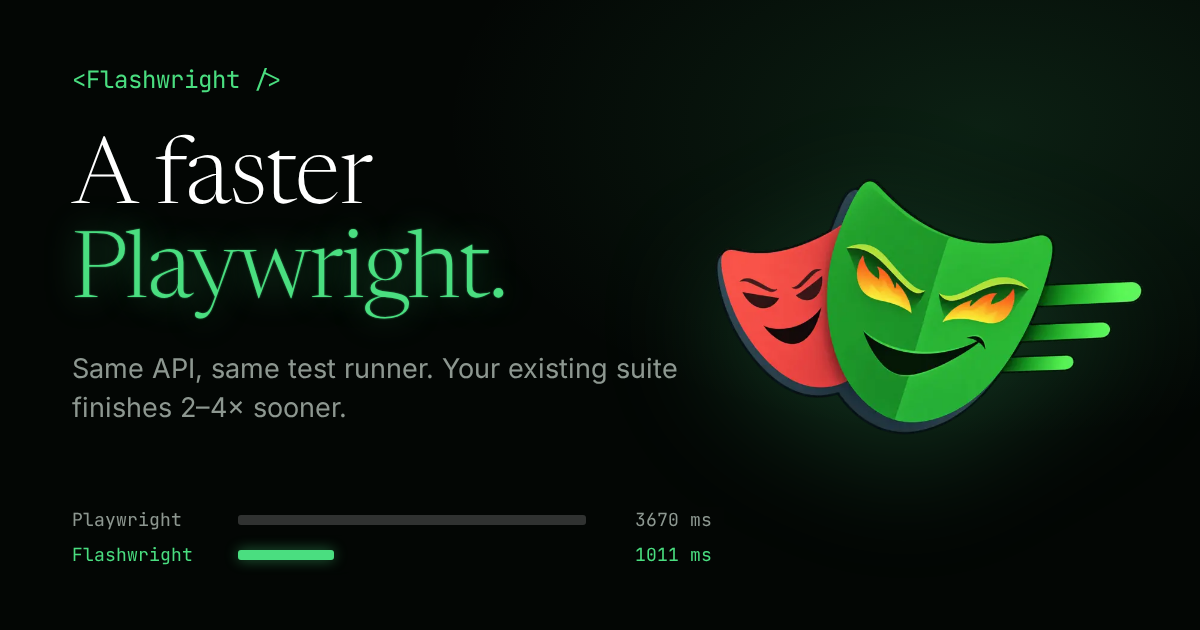
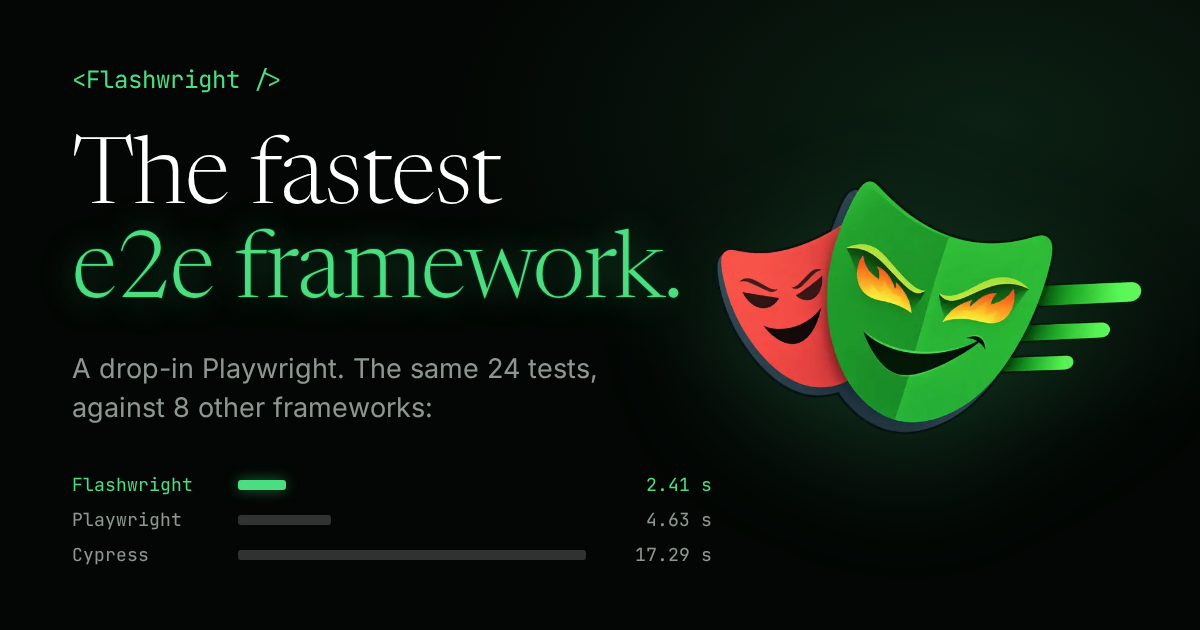
docs: Flashwright is the fastest end-to-end testing framework
The README, the landing page, its social card and the npm package description lead with the cross-framework result.

diff --git a/site/index.html b/site/index.html
@@ -3,8 +3,8 @@
 <head>
 <meta charset="utf-8">
 <meta name="viewport" content="width=device-width, initial-scale=1">
-<title>Flashwright: a faster Playwright, same API and test runner</title>
-<meta name="description" content="Flashwright is a drop-in fork of Playwright 1.64.1. Same API, same test runner, same npx playwright test: your existing suite runs unmodified and finishes 2–4× sooner.">
+<title>Flashwright: the fastest end-to-end testing framework, a drop-in Playwright</title>
+<meta name="description" content="Flashwright is the fastest end-to-end testing framework: a drop-in Playwright with the same API and test runner. Your suite runs unmodified, 2–4× faster than on Playwright and faster than on Cypress, WebdriverIO, Selenium, Puppeteer, TestCafe and Nightwatch.">
 <link rel="canonical" href="https://flashwright.dev/">
 <meta name="google-site-verification" content="6gljoknbi38WsMFQ2yumWQxlznQtHlWODbHOOfPe4Xc">
 <meta name="theme-color" content="#030604">
@@ -13,20 +13,20 @@
 <link rel="preload" href="fonts/newsreader-latin-opsz-normal.woff2" as="font" type="font/woff2" crossorigin>
 <meta property="og:type" content="website">
 <meta property="og:site_name" content="Flashwright">
-<meta property="og:title" content="Flashwright: a faster Playwright">
-<meta property="og:description" content="Same API, same test runner, same npx playwright test. Your existing Playwright suite finishes 2–4× sooner.">
+<meta property="og:title" content="Flashwright: the fastest e2e testing framework">
+<meta property="og:description" content="A drop-in Playwright: same API, same test runner. The same tests run 2× faster than on Playwright and faster than on Cypress, WebdriverIO, Selenium, Puppeteer, TestCafe and Nightwatch.">
 <meta property="og:url" content="https://flashwright.dev/">
 <meta property="og:image" content="https://flashwright.dev/og.png">
 <meta property="og:image:width" content="1200">
 <meta property="og:image:height" content="630">
-<meta property="og:image:alt" content="Flashwright: a faster Playwright. Playwright 3670 ms, Flashwright 1011 ms on the same 24 tests.">
+<meta property="og:image:alt" content="Flashwright: the fastest e2e framework. The same 24 tests: Flashwright 2.41 s, Playwright 4.63 s, Cypress 17.29 s.">
 <meta name="twitter:card" content="summary_large_image">
 <script type="application/ld+json">
 {
   "@context": "https://schema.org",
   "@type": "SoftwareApplication",
   "name": "Flashwright",
-  "description": "A faster drop-in replacement for Playwright: a fork of Playwright 1.64.1 with the same API, test runner and browsers, 2–4× faster test runs.",
+  "description": "The fastest end-to-end testing framework: a drop-in Playwright with the same API, test runner and browsers, 2–4× faster than Playwright and faster than Cypress, WebdriverIO, Selenium, Puppeteer, TestCafe and Nightwatch.",
   "applicationCategory": "DeveloperApplication",
   "operatingSystem": "Linux, macOS, Windows",
   "url": "https://flashwright.dev/",
@@ -233,8 +233,8 @@ footer a:hover { color: var(--neon); }
 <main>
   <div class="wrap hero">
     <div>
-      <h1>A faster <span class="glow">Playwright.</span></h1>
-      <p class="lead">Same API, same test runner, same <code>npx playwright test</code>. Your existing suite runs unmodified and finishes 2–4× sooner.</p>
+      <h1>The fastest <span class="glow">e2e framework.</span></h1>
+      <p class="lead">A drop-in Playwright: same API, same test runner, same <code>npx playwright test</code>. Your suite runs unmodified, 2–4× faster than on Playwright and faster than on <a href="#compare">every framework we benchmarked</a>.</p>
       <div class="actions">
         <a class="btn" href="https://github.com/xcodebeast/flashwright">View on GitHub <span aria-hidden="true">→</span></a>
         <a class="btn quiet" href="#compare">Benchmarks</a>

diff --git a/README.md b/README.md
@@ -2,13 +2,13 @@
 
 # Flashwright
 
-**A faster Playwright.** Same API, same test runner, same `npx playwright test`: your existing Playwright suite runs unmodified and finishes 2–4× sooner. [flashwright.dev](https://flashwright.dev)
+**The fastest end-to-end testing framework.** A drop-in Playwright: same API, same test runner, same `npx playwright test`. Your existing Playwright suite runs unmodified and finishes 2–4× sooner, and the same tests run faster than in Cypress, WebdriverIO, Selenium, Puppeteer, TestCafe, Nightwatch and Bun. [flashwright.dev](https://flashwright.dev)
 
 ![Playwright and Flashwright running the same 24 tests side by side: Playwright takes 3.65 s, Flashwright 1.05 s](docs/media/race.gif)
 
 <sub>Playwright's own TodoMVC example suite, run by both on the same machine. The recorded output of real runs, played back in real time ([MP4](docs/media/race.mp4)).</sub>
 
-- **The fastest of the 9 browser testing tools we benchmarked**: the same 24 tests run 1.8× faster than the runner-up and 1.9–2× faster than Playwright, and 3–11× faster than WebdriverIO, TestCafe and Cypress. [Compared to other frameworks](#compared-to-other-frameworks).
+- **The fastest e2e framework**: in a benchmark of 9 browser testing tools, the same 24 tests run 1.8× faster than the runner-up and 1.9–2× faster than Playwright, and 3–11× faster than WebdriverIO, TestCafe and Cypress. [Compared to other frameworks](#compared-to-other-frameworks).
 - **At least 2× faster than Playwright on every scenario we measure**, 2.86× on average: real example suites, a sign-in app with a setup project, an admin page of 8,500 elements, failing tests, screenshots, visual comparisons. [Benchmarks](#benchmarks).
 - **A drop-in replacement.** Flashwright is a fork of Playwright 1.64.1 that changes only where time goes. Playwright's own test suites are its regression bar.
 - **Made for agents that check their own work.** A single test re-runs in under 0.1 s instead of 0.6–0.7 s, because a [warm session](#warm-session) keeps the browser between runs; screenshots take half the time, and the MCP server can return as soon as the page settles.
